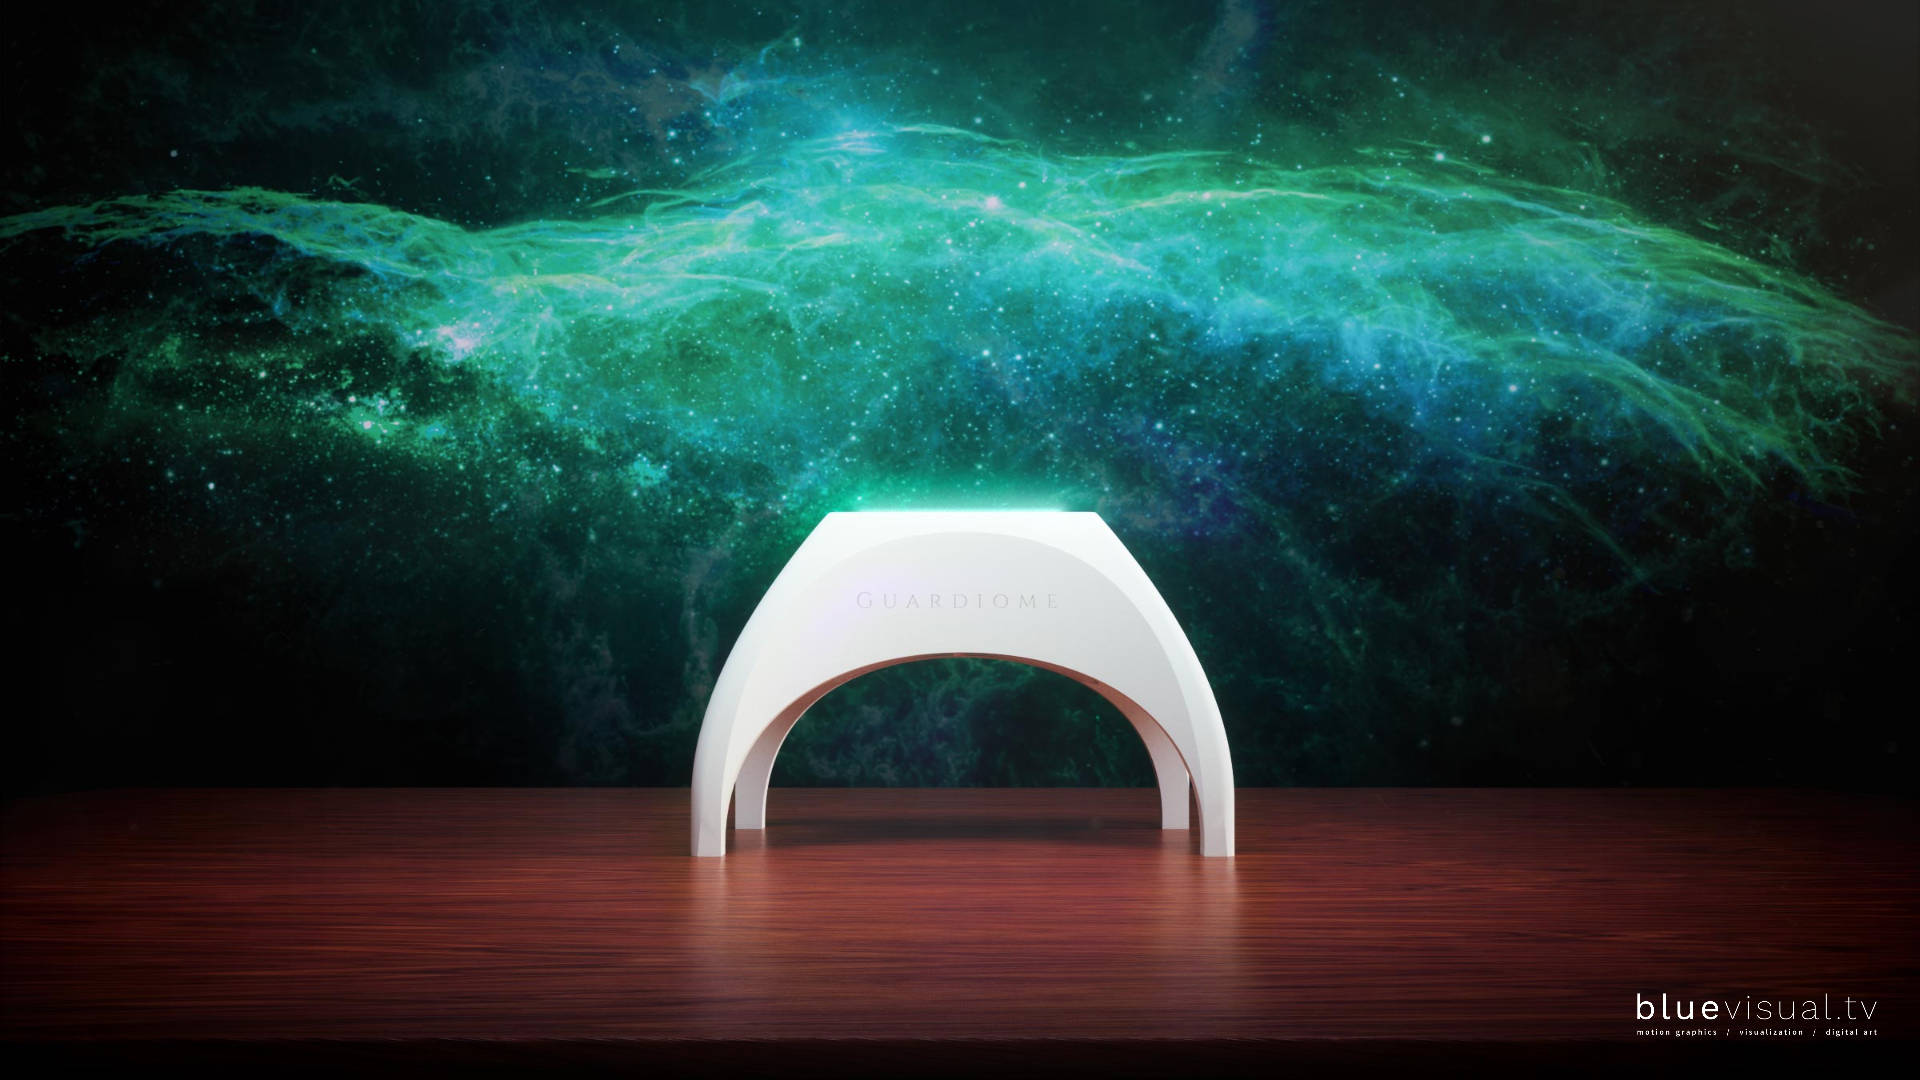
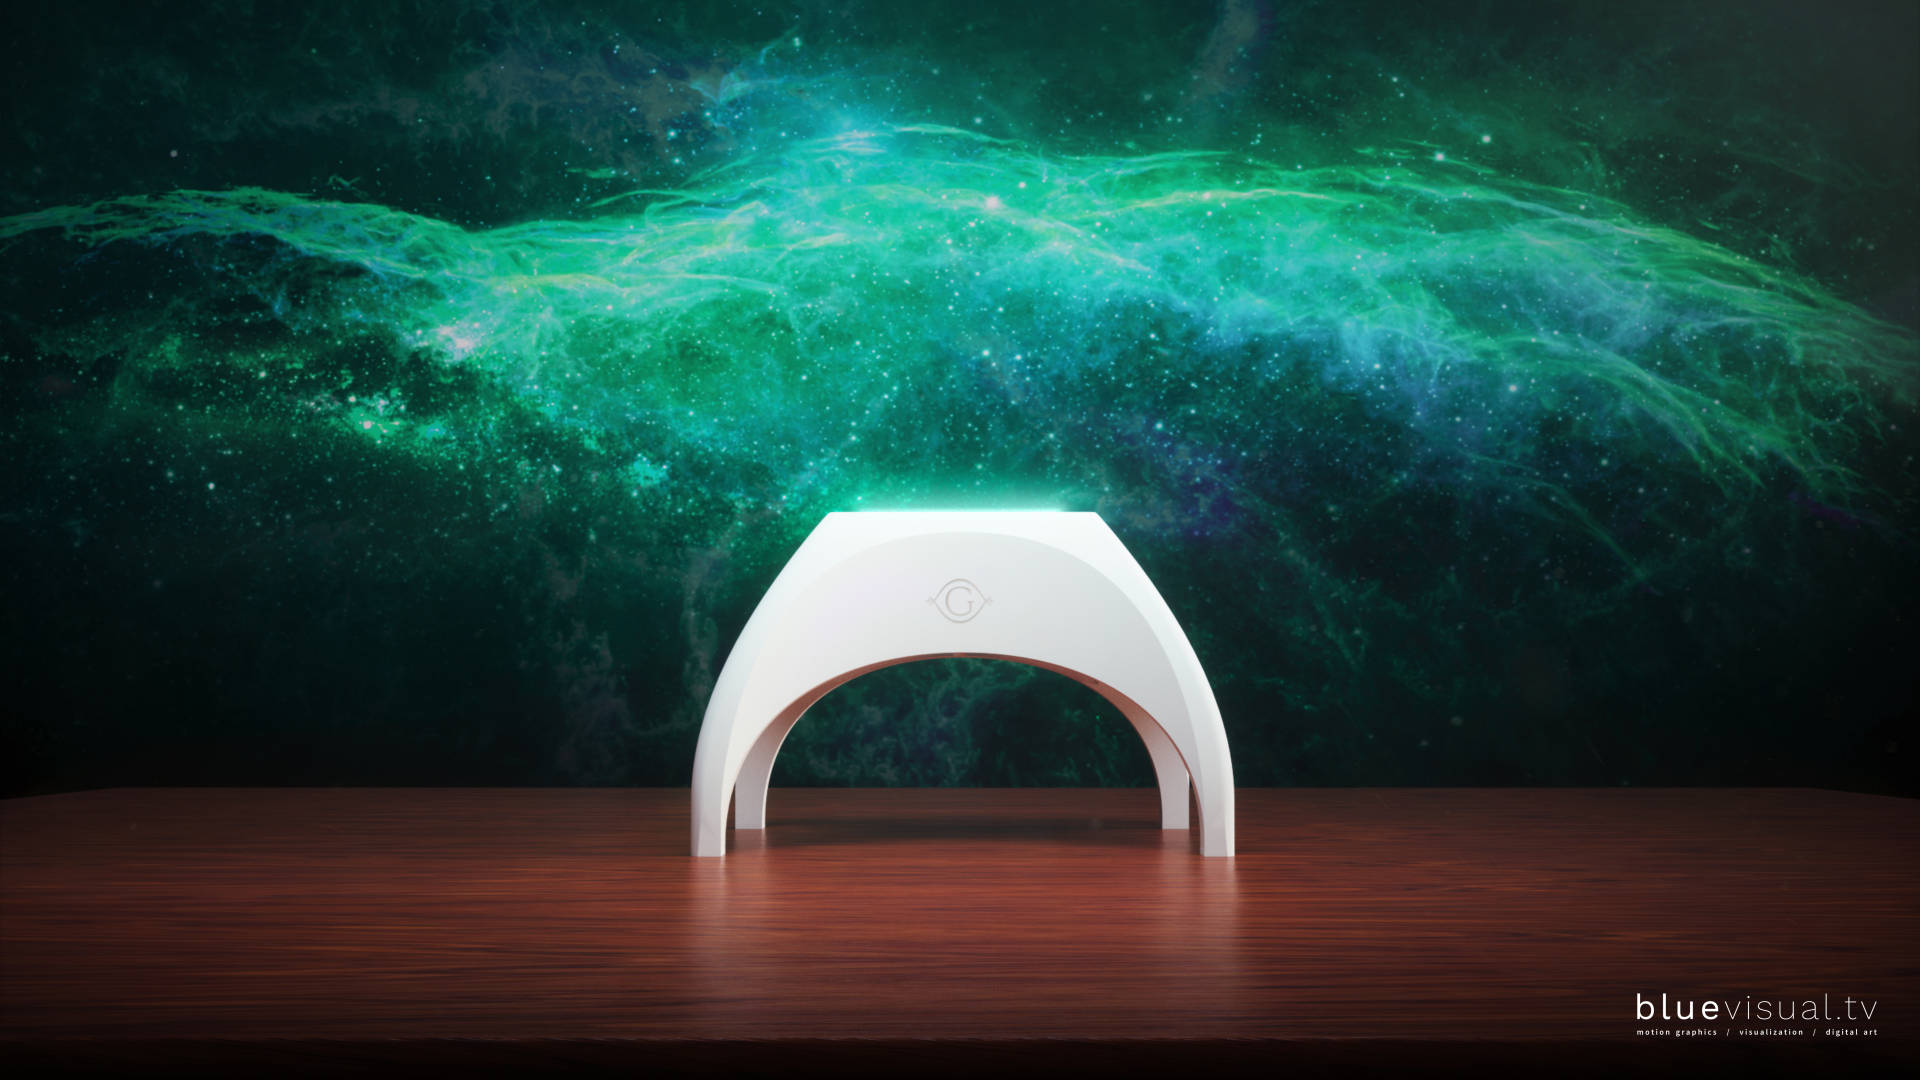
Guardiome first revision updates

diff --git a/content/work/guardiome.md b/content/work/guardiome.md
@@ -9,7 +9,7 @@ peak = false
 sections = ["Product Renders", "Graphics", "Website", "Branding"]
 +++
 
-[Guardiome](http://www.guardiome.com) is a bioinformatics startup from San Diego. They provide completely privitized genomic analysis from inside your home. They came to me looking for a complete branding package from the ground up, including their website and all the necessary visuals to fill it out.<!--more-->
+[Guardiome](http://www.guardiome.com) is a genomics company that gives people easy access to their genome. I worked with them to design branding, the website and its graphics, product renders, and much more.<!--more--> I am now the Chief Creative Officer at Guardiome.
 
 # Product Renders
 
@@ -43,7 +43,7 @@ Some of the graphics were hero shots, while others were more background elements
 
 # Website
 
-The website was built in Squarespace with lots of custom CSS to really dial in the elegant look the client wanted to convey. This proved to be fairly challenging, as with Squarespace, you're unable to change how the HTML is generated, so almost everything you need to do has to be purely a CSS modification.
+The website was built in Squarespace with lots of custom CSS to really dial in the elegant look we wanted to convey. This proved to be fairly challenging, as with Squarespace, you're unable to change how the HTML is generated, so almost everything you need to do has to be purely a CSS modification.
 
 {{< iframe "http://www.guardiome.com/" >}}
 
@@ -51,8 +51,6 @@ You can also visit the website directly at [Guardiome.com](http://www.Guardiome.
 
 # Branding
 
-The branding included colors, two font faces for all documents, and a few different logo variations for use in different contexts.
+The branding included colors, font faces, printed documents, and a few different logo variations for use in different contexts.
 
-{{< image 11 "Logo variations, graphics incorporating them, and the chosen brand colors" >}}
-
-{{< image 12 "Square business card design" >}}
+{{< image 11 "Compact style guide" >}}
